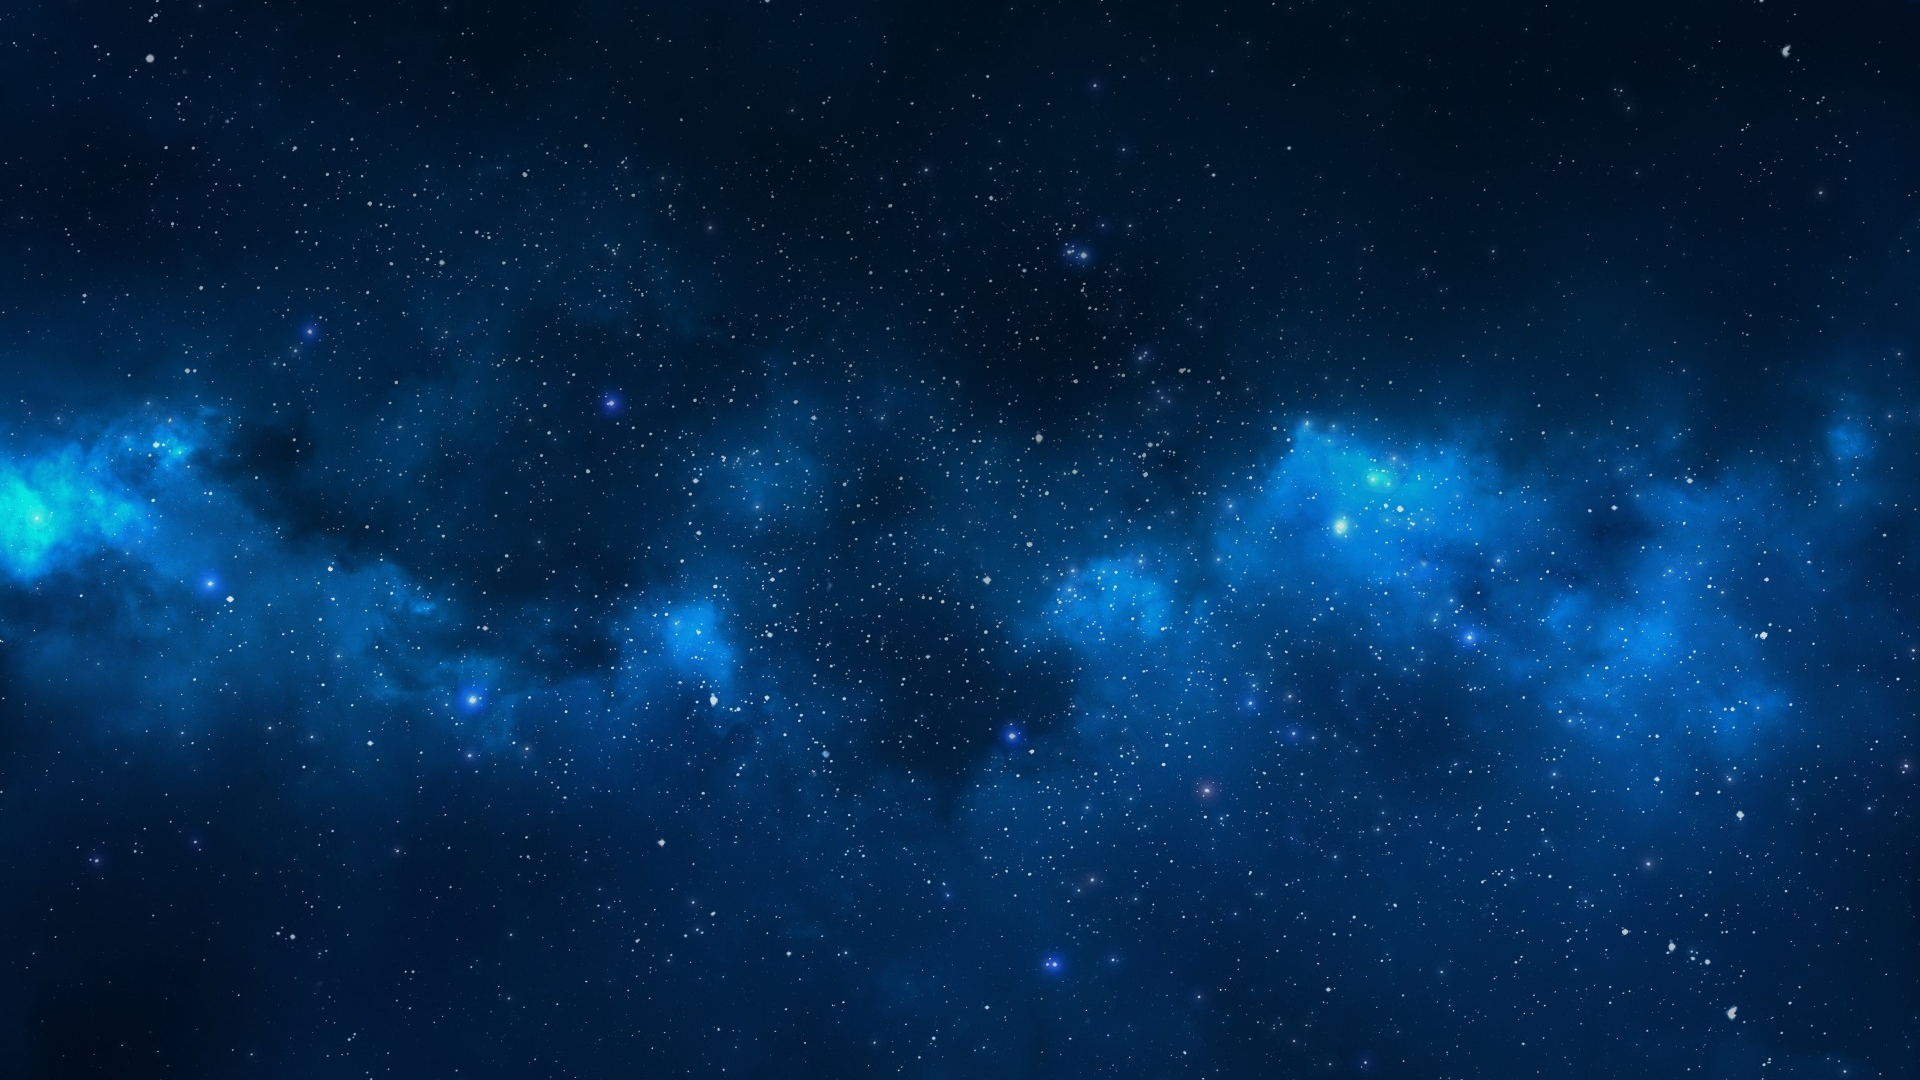
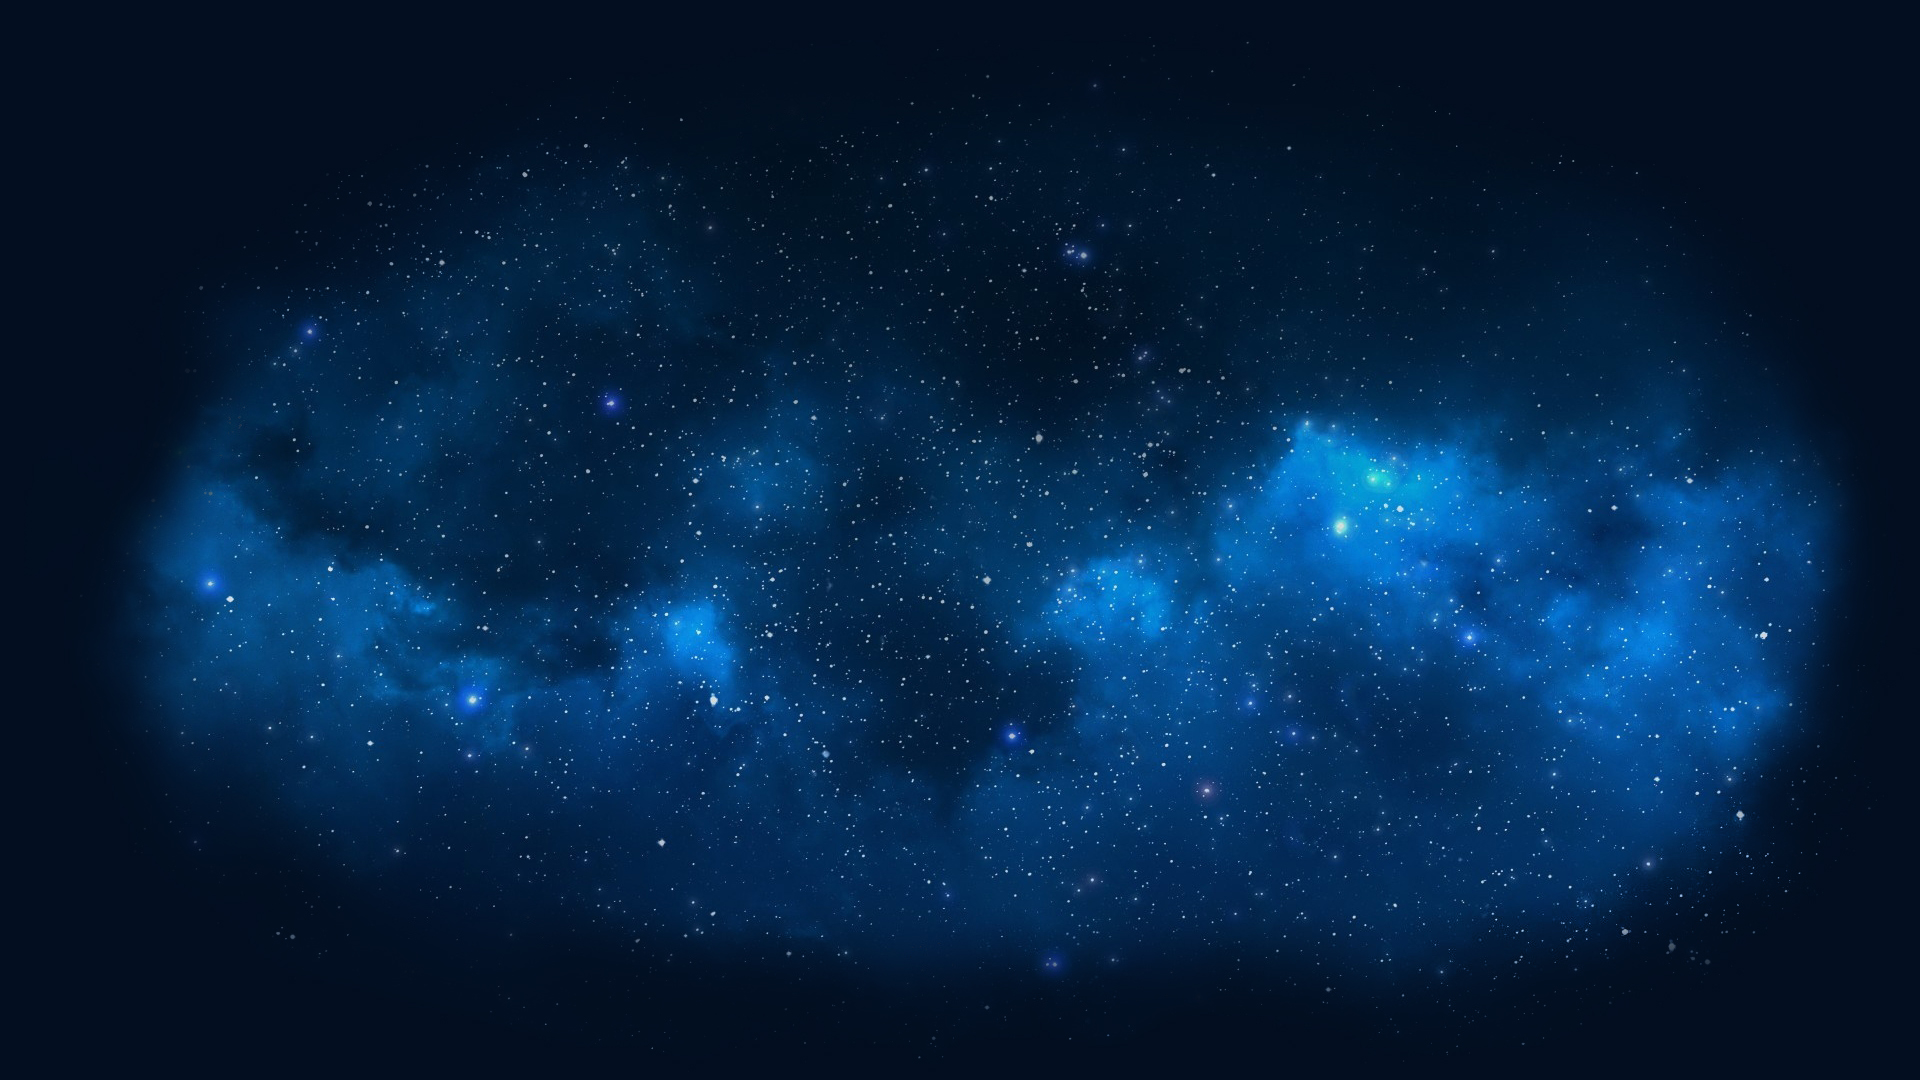
BH[10] - added layout images

Changed region(s): [[0.1562, 0.2139, 1.0, 1.0], [0.0, 0.2444, 0.125, 0.825], [0.1562, 0.8861, 0.1875, 0.9167]]

diff --git a/public/stylesheets/layout/layout.css b/public/stylesheets/layout/layout.css
@@ -1,6 +1,6 @@
 #blizzhelp_body{
-    background-color:#02162f;
-    background-image: url("/images/wallpapers/space_stars_blue.jpg");
+    background-color:#030e20;
+    background-image: url("/images/wallpapers/space_stars_blue.jpg"),url("/images/wallpapers/ice.jpg");
     background-repeat: no-repeat;    
-    background-position: center top;
+    background-position: center top,center bottom;
 }
